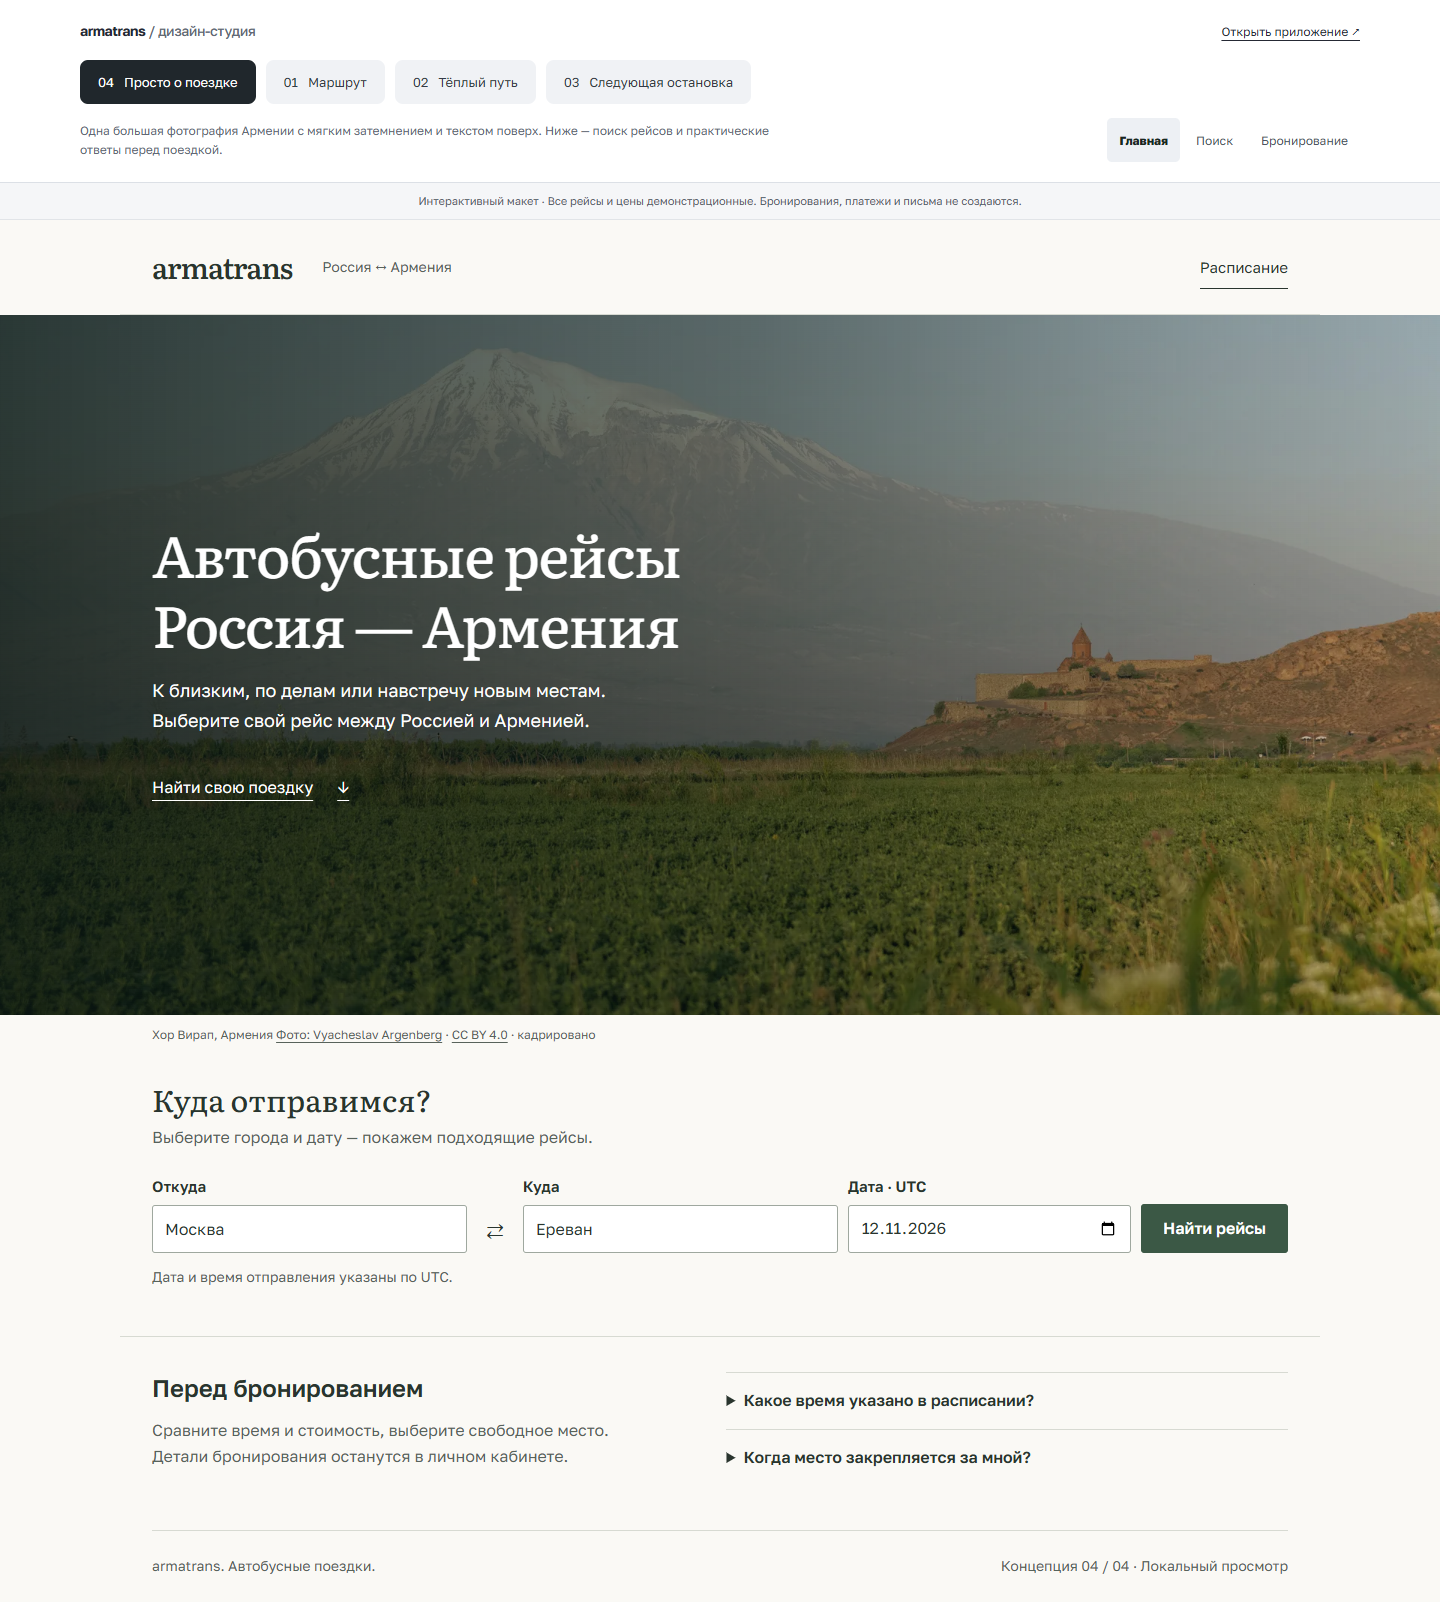
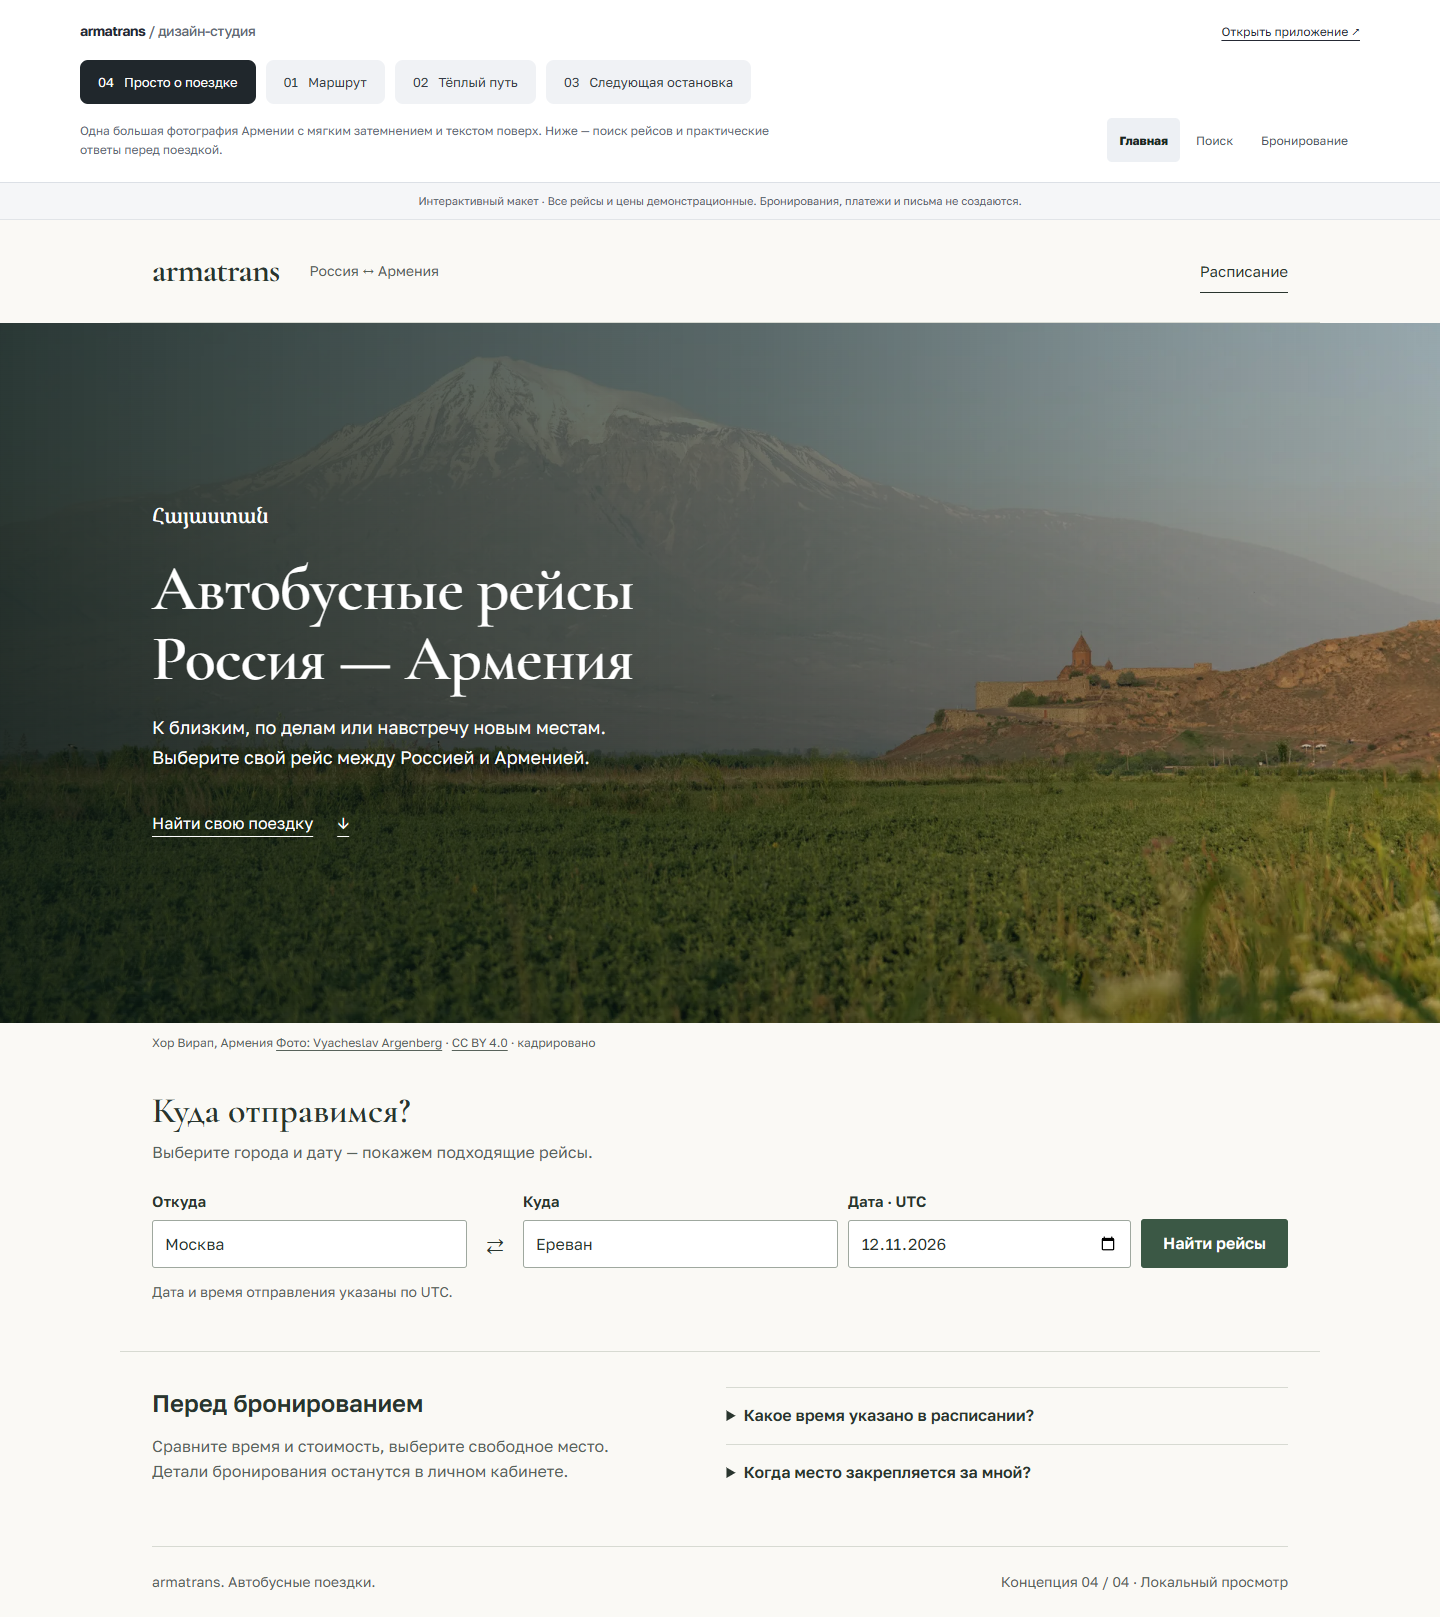
design: refine display typography with Cormorant and Armenian serif

diff --git a/frontend/src/design/calm.css b/frontend/src/design/calm.css
@@ -26,10 +26,10 @@
   border-bottom: 1px solid var(--dc-line);
 }
 .dc-calm .dc-brand {
-  font-family: 'Literata Variable', Georgia, serif;
-  font-size: 29px !important;
-  font-weight: 550 !important;
-  letter-spacing: -0.035em;
+  font-family: 'Cormorant Garamond Variable', 'Noto Serif Armenian Variable', Georgia, serif;
+  font-size: 34px !important;
+  font-weight: 650 !important;
+  letter-spacing: -0.025em;
 }
 .dc-calm .dc-brand-mark,
 .dc-calm .dc-brand-dot {
@@ -79,12 +79,19 @@
   max-width: 640px;
 }
 .dc-calm-start h1 {
-  font-family: 'Literata Variable', Georgia, serif;
+  font-family: 'Cormorant Garamond Variable', 'Noto Serif Armenian Variable', Georgia, serif;
   font-optical-sizing: auto;
-  font-size: clamp(36px, 4.2vw, 58px);
-  line-height: 1.2;
-  font-weight: 450;
-  letter-spacing: -0.025em;
+  font-size: clamp(40px, 4.5vw, 64px);
+  line-height: 1.1;
+  font-weight: 600;
+  letter-spacing: -0.015em;
+}
+.dc-calm-place {
+  color: #fff;
+  font-family: 'Noto Serif Armenian Variable', serif;
+  font-size: 21px;
+  font-weight: 500;
+  margin-bottom: 22px !important;
 }
 .dc-calm .dc-description {
   font-size: 17px;
@@ -125,9 +132,9 @@
   scroll-margin-top: 24px;
 }
 .dc-calm-search h2 {
-  font-family: 'Literata Variable', Georgia, serif;
-  font-size: 30px;
-  font-weight: 450;
+  font-family: 'Cormorant Garamond Variable', 'Noto Serif Armenian Variable', Georgia, serif;
+  font-size: 36px;
+  font-weight: 600;
 }
 .dc-calm-search-intro {
   color: var(--dc-muted);
@@ -410,7 +417,7 @@
     padding: 48px 24px;
   }
   .dc-calm-start h1 {
-    font-size: clamp(36px, 6vw, 48px);
+    font-size: clamp(40px, 6vw, 52px);
   }
   .dc-calm-start .dc-description {
     max-width: 580px;
@@ -456,7 +463,7 @@
     padding: 18px 20px;
   }
   .dc-calm .dc-brand {
-    font-size: 27px !important;
+    font-size: 32px !important;
   }
   .dc-calm .dc-site-header > .dc-text-button {
     max-width: none;
@@ -466,7 +473,7 @@
     padding: 40px 20px;
   }
   .dc-calm-start h1 {
-    font-size: 36px;
+    font-size: 40px;
   }
   .dc-calm-search {
     padding: 28px 20px 36px;

diff --git a/frontend/src/design/DesignConceptsPage.tsx b/frontend/src/design/DesignConceptsPage.tsx
@@ -1,6 +1,8 @@
 import { CityInput } from '../features/cities/CityInput'
 import { cityName } from '../features/cities/catalog'
 import { useEffect, useRef, useState } from 'react'
+import '@fontsource-variable/cormorant-garamond'
+import '@fontsource-variable/noto-serif-armenian'
 import './concepts.css'
 import './calm.css'
 import khorVirap from './assets/armenia-khor-virap-1920.webp'
@@ -303,6 +305,9 @@ export default function DesignConceptsPage() {
                     fetchPriority="high"
                   />
                   <div className="dc-calm-start-copy">
+                    <p className="dc-calm-place" lang="hy">
+                      Հայաստան
+                    </p>
                     <h1 ref={heading} tabIndex={-1}>
                       {concept.heading}
                     </h1>

diff --git a/docs/branding.md b/docs/branding.md
@@ -23,21 +23,33 @@ DNS и репозиторий `wqus/ArmenianBus` также сохраняютс
 - **Golos Text** — интерфейс, поля, расписание, пояснения и цены.
   Разработан Александрой Корольковой и Виталием Кузьминым для продолжительного чтения
   с экрана; кириллица — часть семейства. [Fontsource](https://fontsource.org/fonts/golos-text/about).
-- **Literata** — текстовый знак и основные заголовки. Антиква TypeTogether с самостоятельным
-  рисунком кириллицы. В спокойном варианте заголовок имеет вес 450, знак — 550;
-  интерфейсные числа и мелкие подписи остаются в Golos Text.
+- **Literata** — текстовый знак и основные заголовки текущего рабочего интерфейса.
+  Антиква TypeTogether с самостоятельным рисунком кириллицы.
   [Fontsource](https://fontsource.org/fonts/literata/about).
+- **Cormorant Garamond** — новый выбор для знака и крупных заголовков спокойного
+  макета. Вес заголовка 600 и знака 650 сохраняет читаемость тонких деталей на фото.
+  Это европейская акцидентная антиква, не исторический армянский шрифт.
+  Более книжный характер выбран как дизайнерское решение.
+  [Проект Cormorant](https://github.com/CatharsisFonts/Cormorant).
+- **Noto Serif Armenian** — армянские символы в заголовках макета и надпись
+  `Հայաստան` («Армения») над главным заголовком. Для армянского текста форм и
+  подсказок используется **Noto Sans Armenian**.
+  [Проект Noto Armenian](https://github.com/notofonts/armenian).
+
+Два новых семейства импортируются только страницей макета: в production они
+не добавляются до переноса дизайна в основные страницы.
 
 Точные версии пакетов — в package.json/package-lock.json. Семейства распространяются
 по OFL-1.1; лицензии входят в npm-пакеты. Файлы WOFF2 поставляются нашим frontend,
 `font-display: swap` обеспечивает fallback на время загрузки. Запросов к Google Fonts нет.
 Поддержка кириллицы и латиницы не означает поддержку армянского письма;
-для будущей армянской локализации потребуется отдельный выбор шрифта.
+для армянских символов явно заданы семейства Noto Armenian. Это не полная
+армянская локализация интерфейса.
 
 ## Критерии оформления
 
-Типографическая выразительность не должна мешать задаче: поиск доступен на первом экране,
-тексты конкретны, формы привычны, фотографии самостоятельны, данные рейса выровнены.
+Типографическая выразительность не должна мешать задаче: ссылка первого экрана ведёт
+к поиску ниже фотографии, формы привычны, данные рейса выровнены.
 Не используются фиктивные отзывы, цифры продаж, искусственная срочность и декоративные
 слоганы. Название и шрифт сами по себе не гарантируют уникальность: результат оценивается
 по реальным desktop/mobile экранам, читаемости и завершению пользовательского сценария.

diff --git a/docs/design/service-design-rationale.md b/docs/design/service-design-rationale.md
@@ -31,9 +31,10 @@
 2. По уточнению пользователя оставлена одна фотография Хор Вирапа на всю ширину,
    высотой около 70% окна. Поверх — светлый текст с затемнением фона для читаемости.
    Поиск расположен ниже на светлой поверхности; на телефоне сохраняется тот же порядок.
-3. Интерфейс использует Golos Text, основные заголовки и название — Literata.
-   Оба семейства имеют кириллицу и загружаются с нашего origin через Fontsource.
-   Для армянских названий добавлен Noto Sans Armenian с локальной загрузкой.
+3. Интерфейс использует Golos Text, основные заголовки и название макета —
+   Cormorant Garamond. Для армянской надписи и заголовков добавлен Noto Serif Armenian,
+   для армянских названий в формах — Noto Sans Armenian. Все файлы загружаются
+   с нашего origin через Fontsource.
    Системные шрифты оставлены только как fallback. Размеры интерфейсного текста
    не уменьшаются до мелкого кегля на телефоне. Подробности — в [branding.md](../branding.md).
 4. Тёплый белый фон и один тёмно-зелёный акцент, радиус 2–3 px, без парящих панелей,
